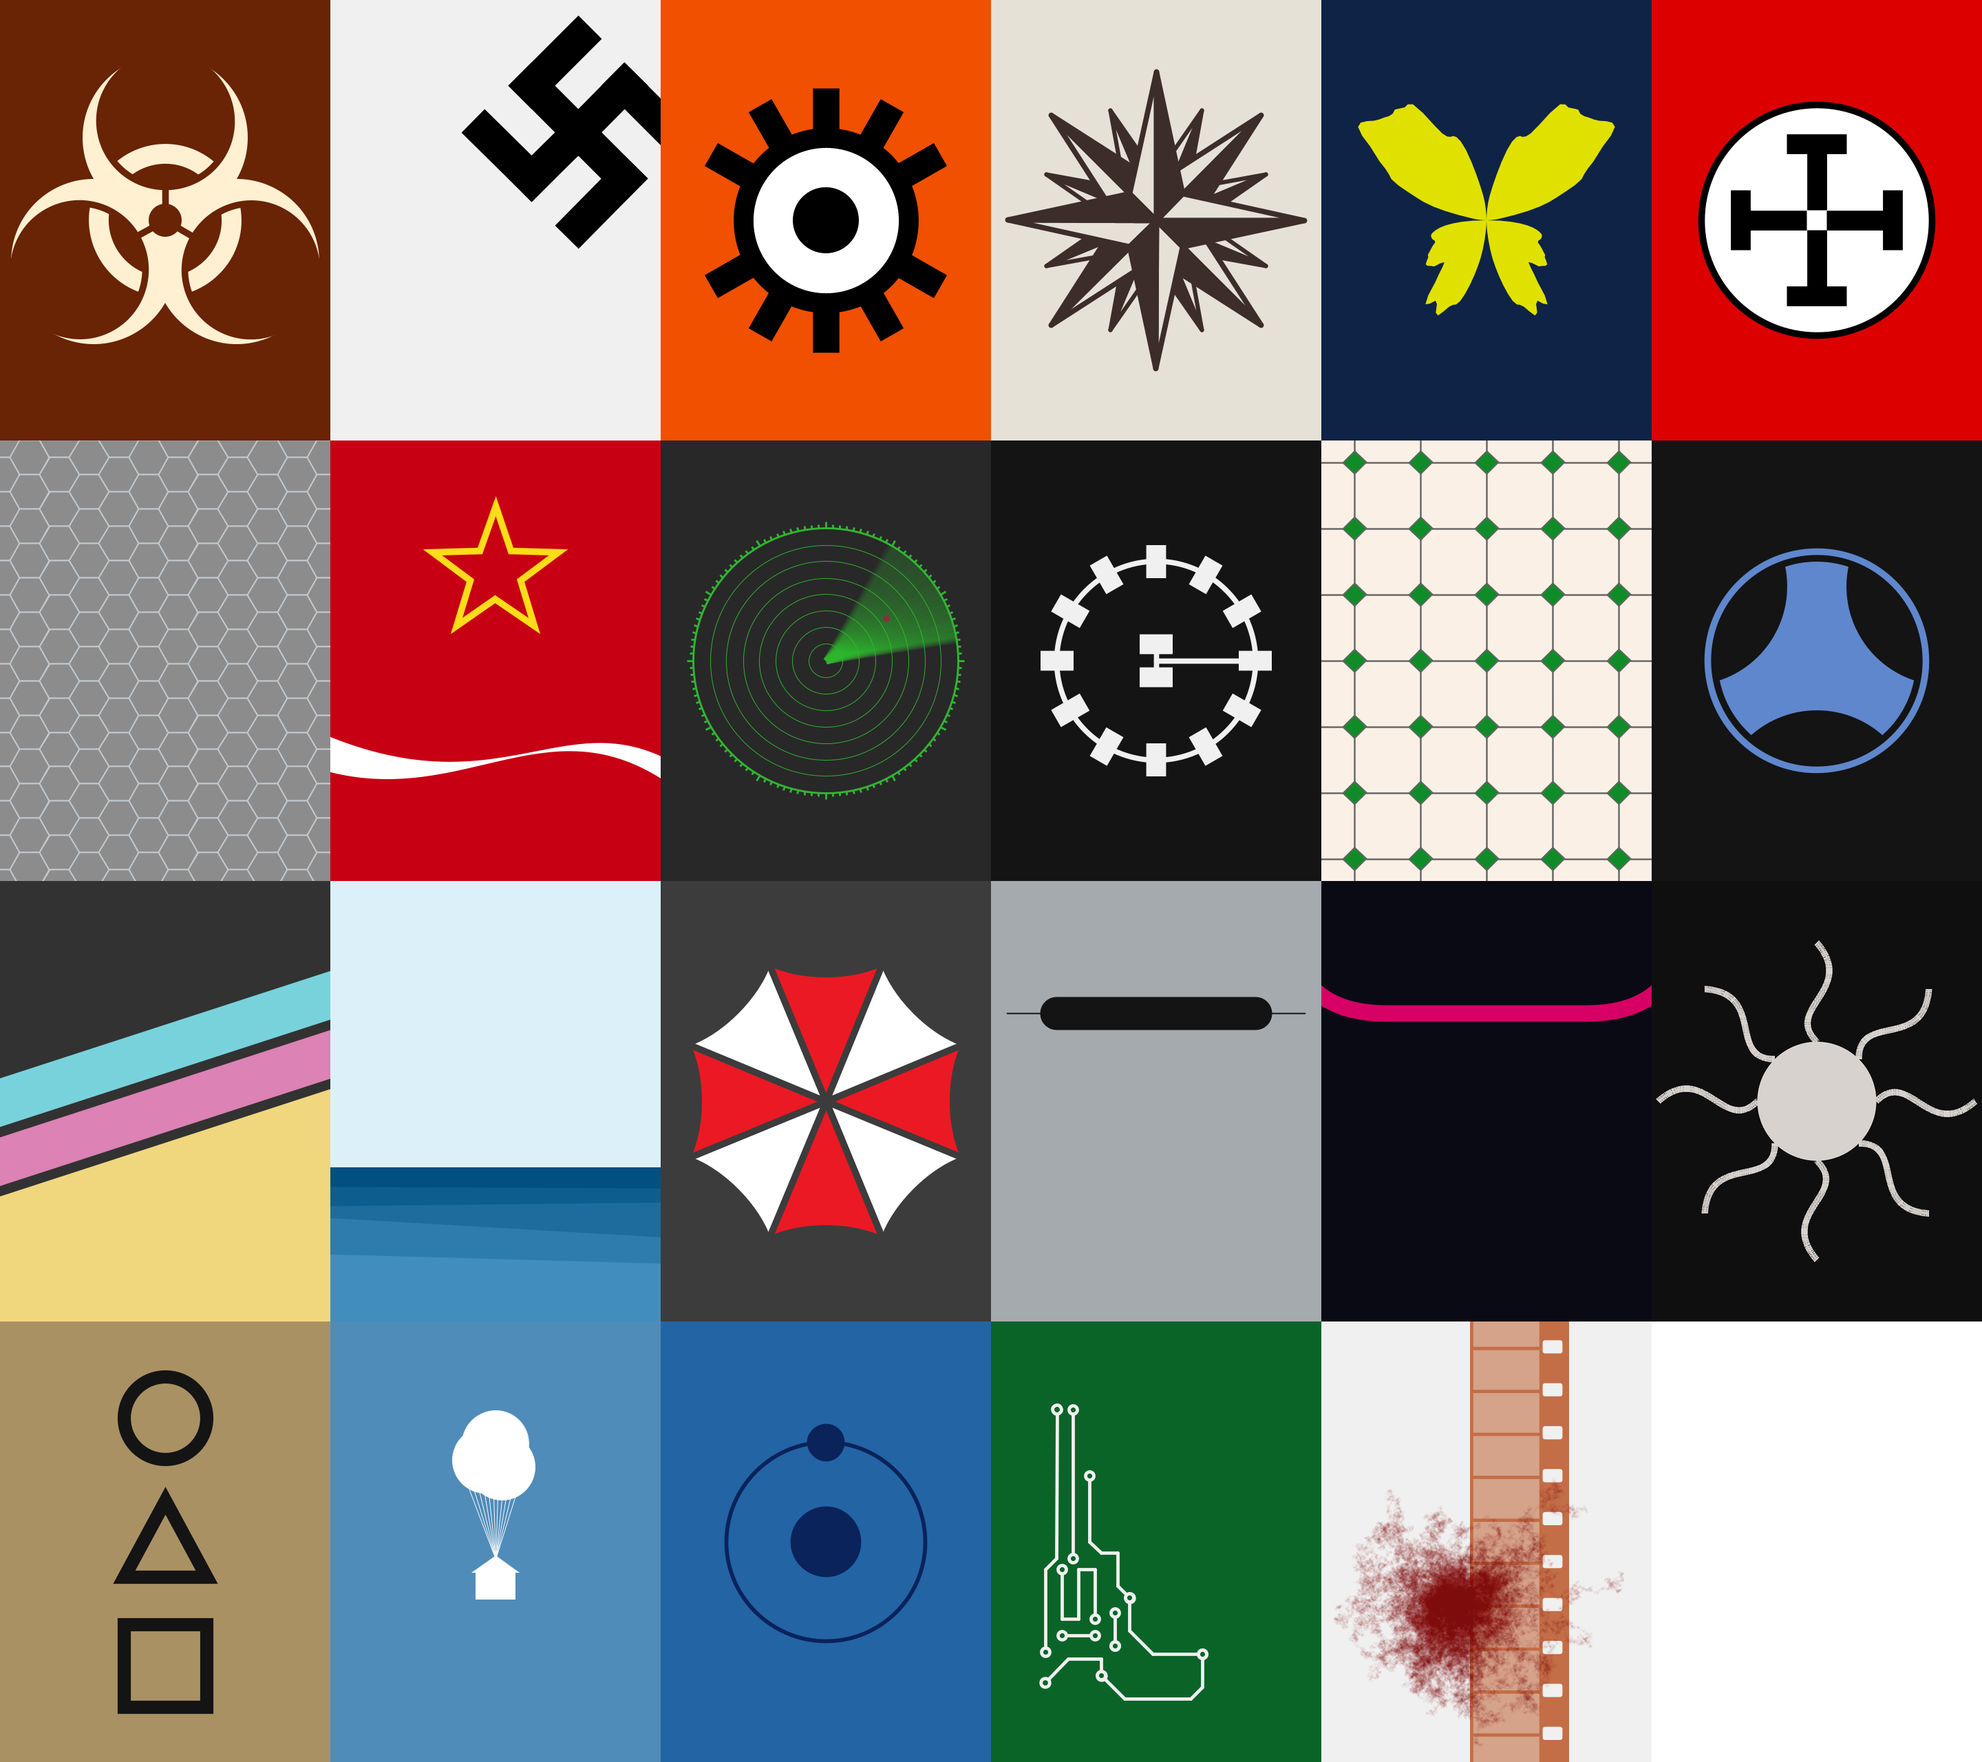
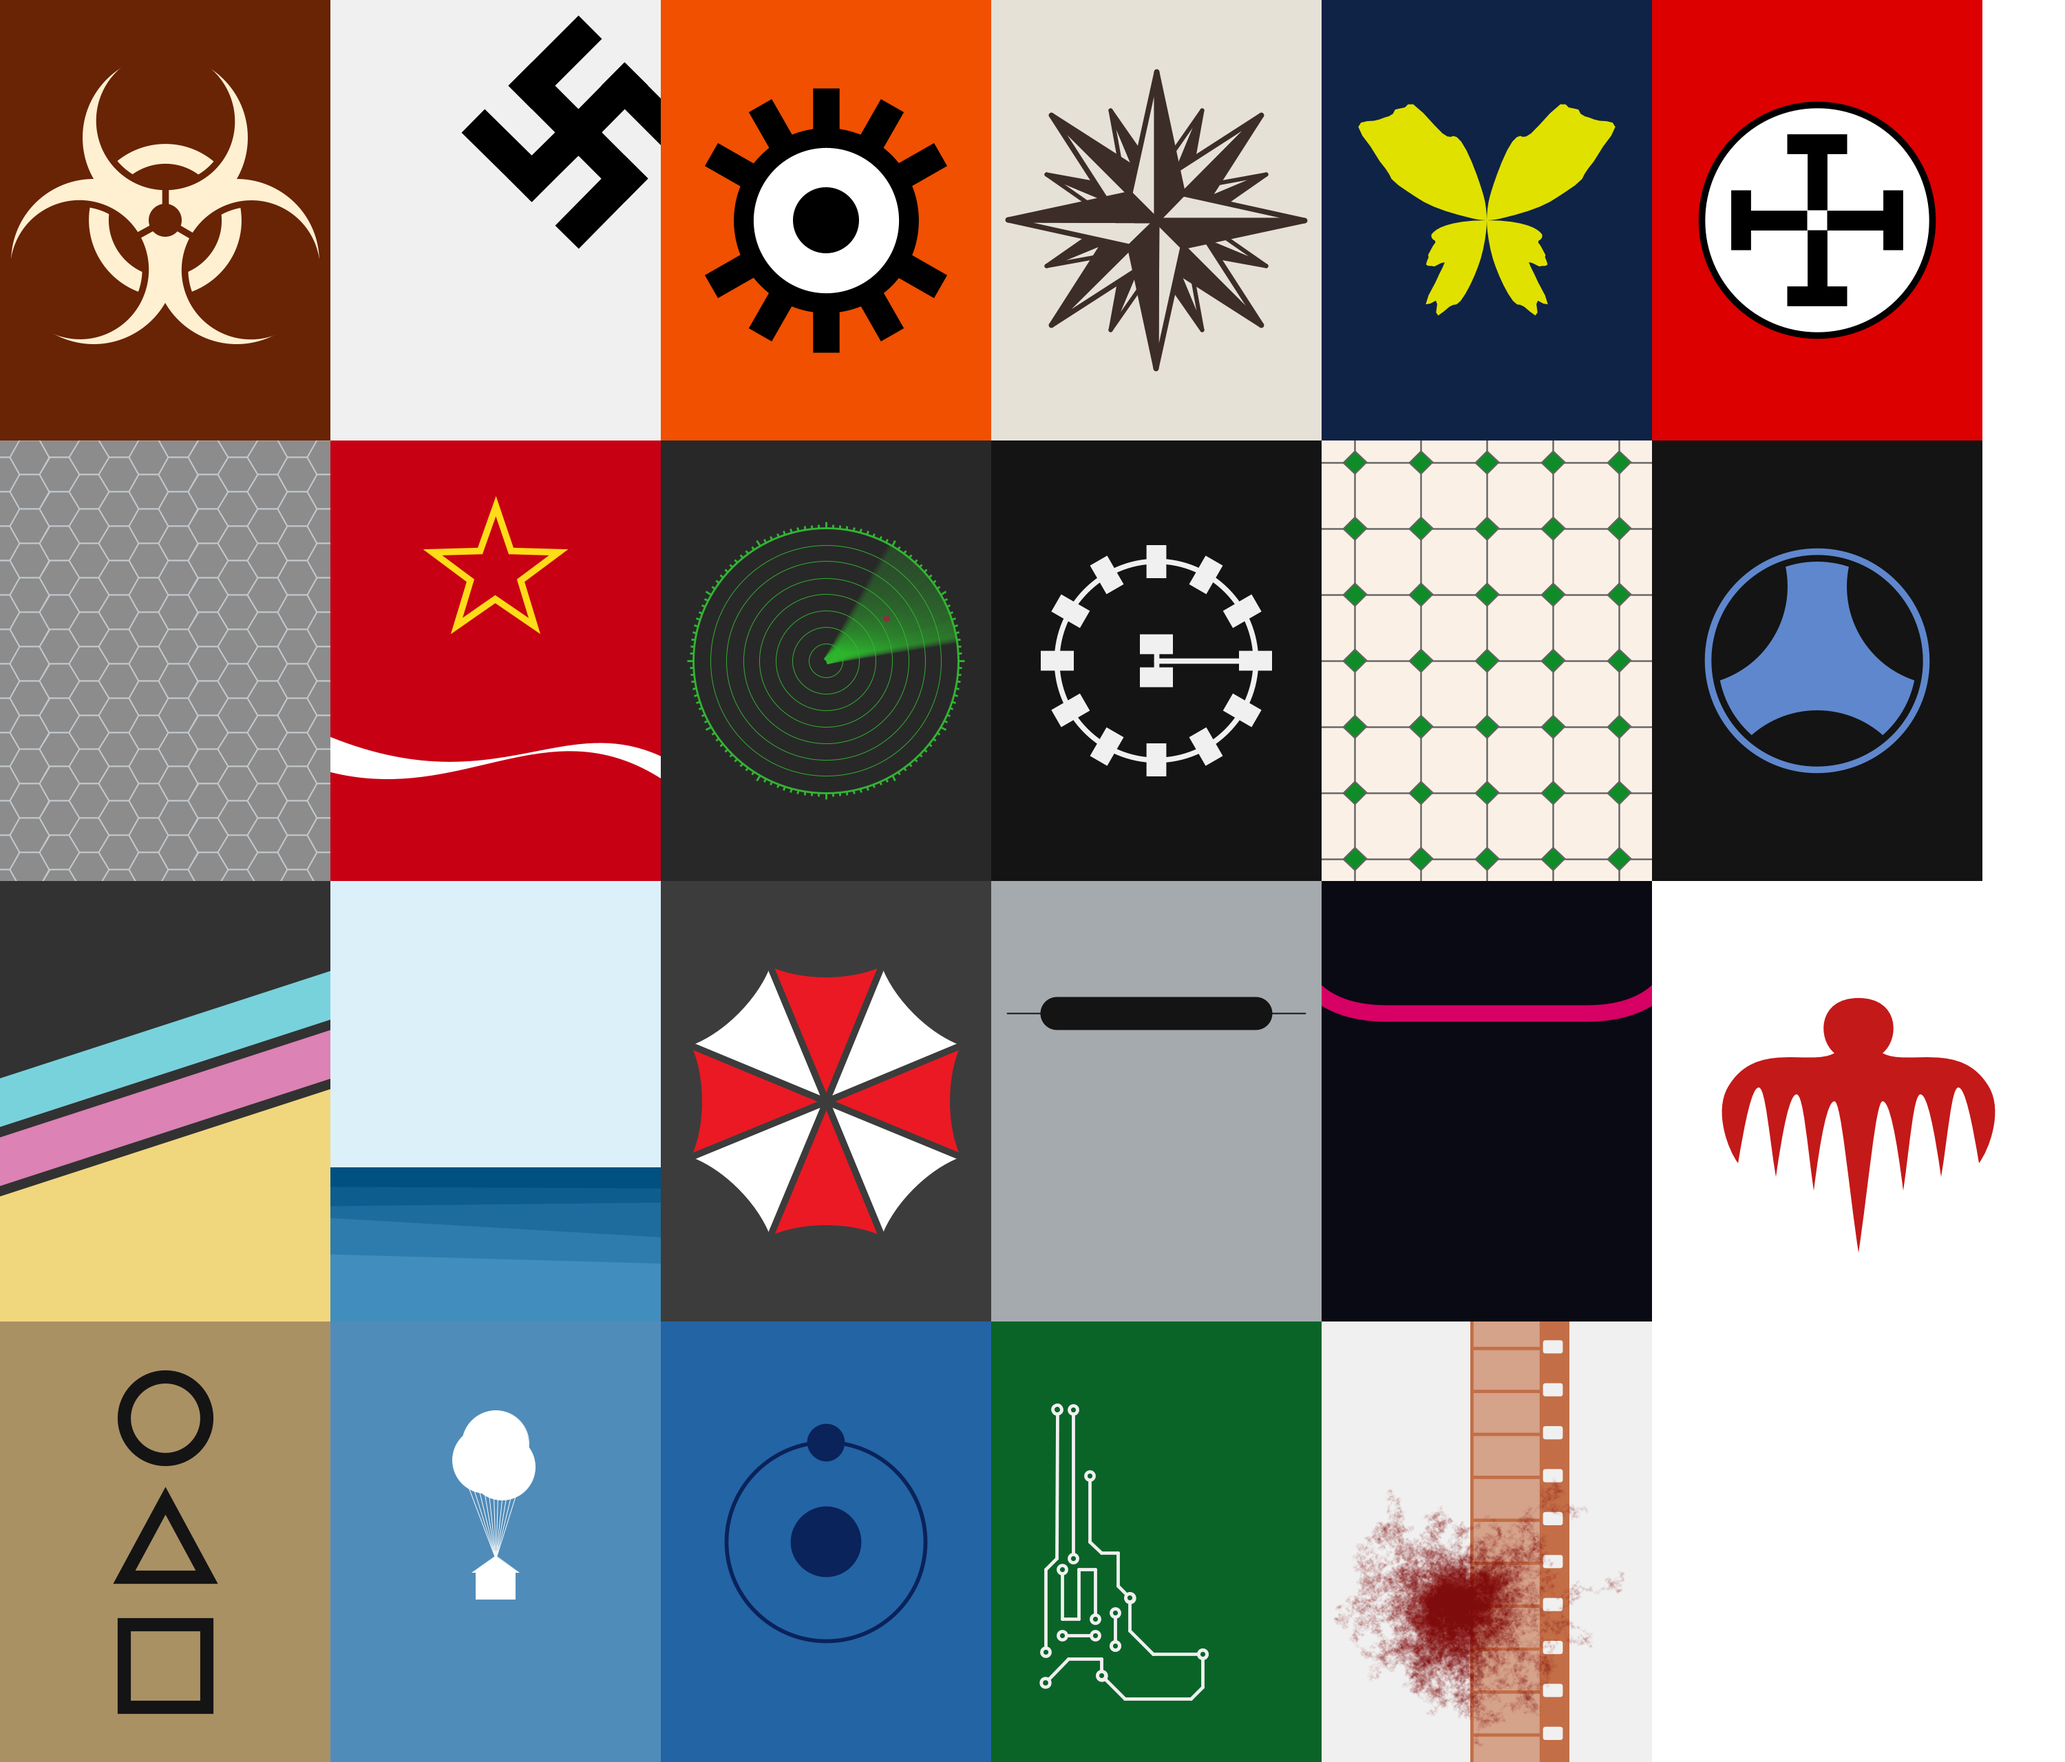
pages updated

diff --git a/examples/volume6/spectre/README.md b/examples/volume6/spectre/README.md
@@ -1,0 +1,116 @@
+---
+permalink: /examples/volume6/spectre/
+title: Spectre (2015) | Minimalist Movie Poster
+description: Minimalist Movie Poster generated using Java and Processing.
+---
+
+# Spectre (2015)
+
+Action, Adventure, Thriller
+
+## Plot
+A cryptic message from James Bond's past sends him on a trail to uncover the existence of a sinister organisation named SPECTRE.
+
+[details](https://www.imdb.com/title/tt2379713/)
+
+## Movie Poster
+<img src="spectre.png"  width="360px" title="Spectre">
+
+
+## The code
+```java
+// Manuale di Programmazione Cinematografica
+// Daniele Olmisani, 2024
+
+// SPECTRE (2015)
+
+
+void setup() {
+  size(600, 600);
+  smooth();
+  noLoop();
+}
+
+
+void draw() {
+  background(255);
+
+  // Sposta l'origine al centro della finestra, leggermente rialzata
+  translate(width / 2, height / 2 - 30);
+
+  noStroke();
+  fill(195, 25, 25);
+
+  beginShape();
+
+  // PUNTO DI PARTENZA: Testa in alto al centro
+  vertex(0, -120);
+
+  // --- LATO DESTRO ---
+  // Testa (curva destra)
+  bezierVertex(60, -120, 60, -60, 35, -40);
+
+  // Spalla destra (curva ampia verso l'esterno)
+  bezierVertex(70, -20, 150, -60, 190, 10);
+
+  // Tentacolo esterno (3° da destra) - punta
+  bezierVertex(210, 45, 190, 100, 175, 120);
+
+  // Membrana tra 3° e 2° tentacolo
+  bezierVertex(165, 60, 155, 10, 145, 10);
+
+  // Tentacolo medio (2° da destra) - punta
+  bezierVertex(135, 10, 130, 80, 120, 140);
+
+  // Membrana tra 2° e 1° tentacolo
+  bezierVertex(110, 70, 100, 20, 90, 20);
+
+  // Tentacolo interno (1° da destra) - punta
+  bezierVertex(80, 20, 75, 90, 65, 160);
+
+  // Membrana tra 1° tentacolo e centrale
+  bezierVertex(55, 80, 45, 30, 35, 30);
+
+  // Tentacolo centrale - punta (il più lungo)
+  bezierVertex(25, 30, 15, 150, 0, 250);
+
+  // --- LATO SINISTRO (Specchiato perfettamente) ---
+  // Invertiamo i valori X e l'ordine per chiudere la forma senza interruzioni
+
+  // Tentacolo centrale (risalita lato sinistro)
+  bezierVertex(-15, 150, -25, 30, -35, 30);
+
+  // Membrana tra centrale e 1° sinistro
+  bezierVertex(-45, 30, -55, 80, -65, 160);
+
+  // Tentacolo interno (1° da sinistra)
+  bezierVertex(-75, 90, -80, 20, -90, 20);
+
+  // Membrana tra 1° e 2° sinistro
+  bezierVertex(-100, 20, -110, 70, -120, 140);
+
+  // Tentacolo medio (2° da sinistra)
+  bezierVertex(-130, 80, -135, 10, -145, 10);
+
+  // Membrana tra 2° e 3° sinistro
+  bezierVertex(-155, 10, -165, 60, -175, 120);
+
+  // Tentacolo esterno (3° da sinistra)
+  bezierVertex(-190, 100, -210, 45, -190, 10);
+
+  // Spalla sinistra
+  bezierVertex(-150, -60, -70, -20, -35, -40);
+
+  // Testa (curva sinistra fino a chiudere)
+  bezierVertex(-60, -60, -60, -120, 0, -120);
+
+  endShape(CLOSE);
+
+  save("spectre.png");
+}
+
+```
+
+> MdPC - a collection of minimalist movie posters
+> by Daniele Olmisani
+> Please, see [LICENSE](../../../LICENSE) file
